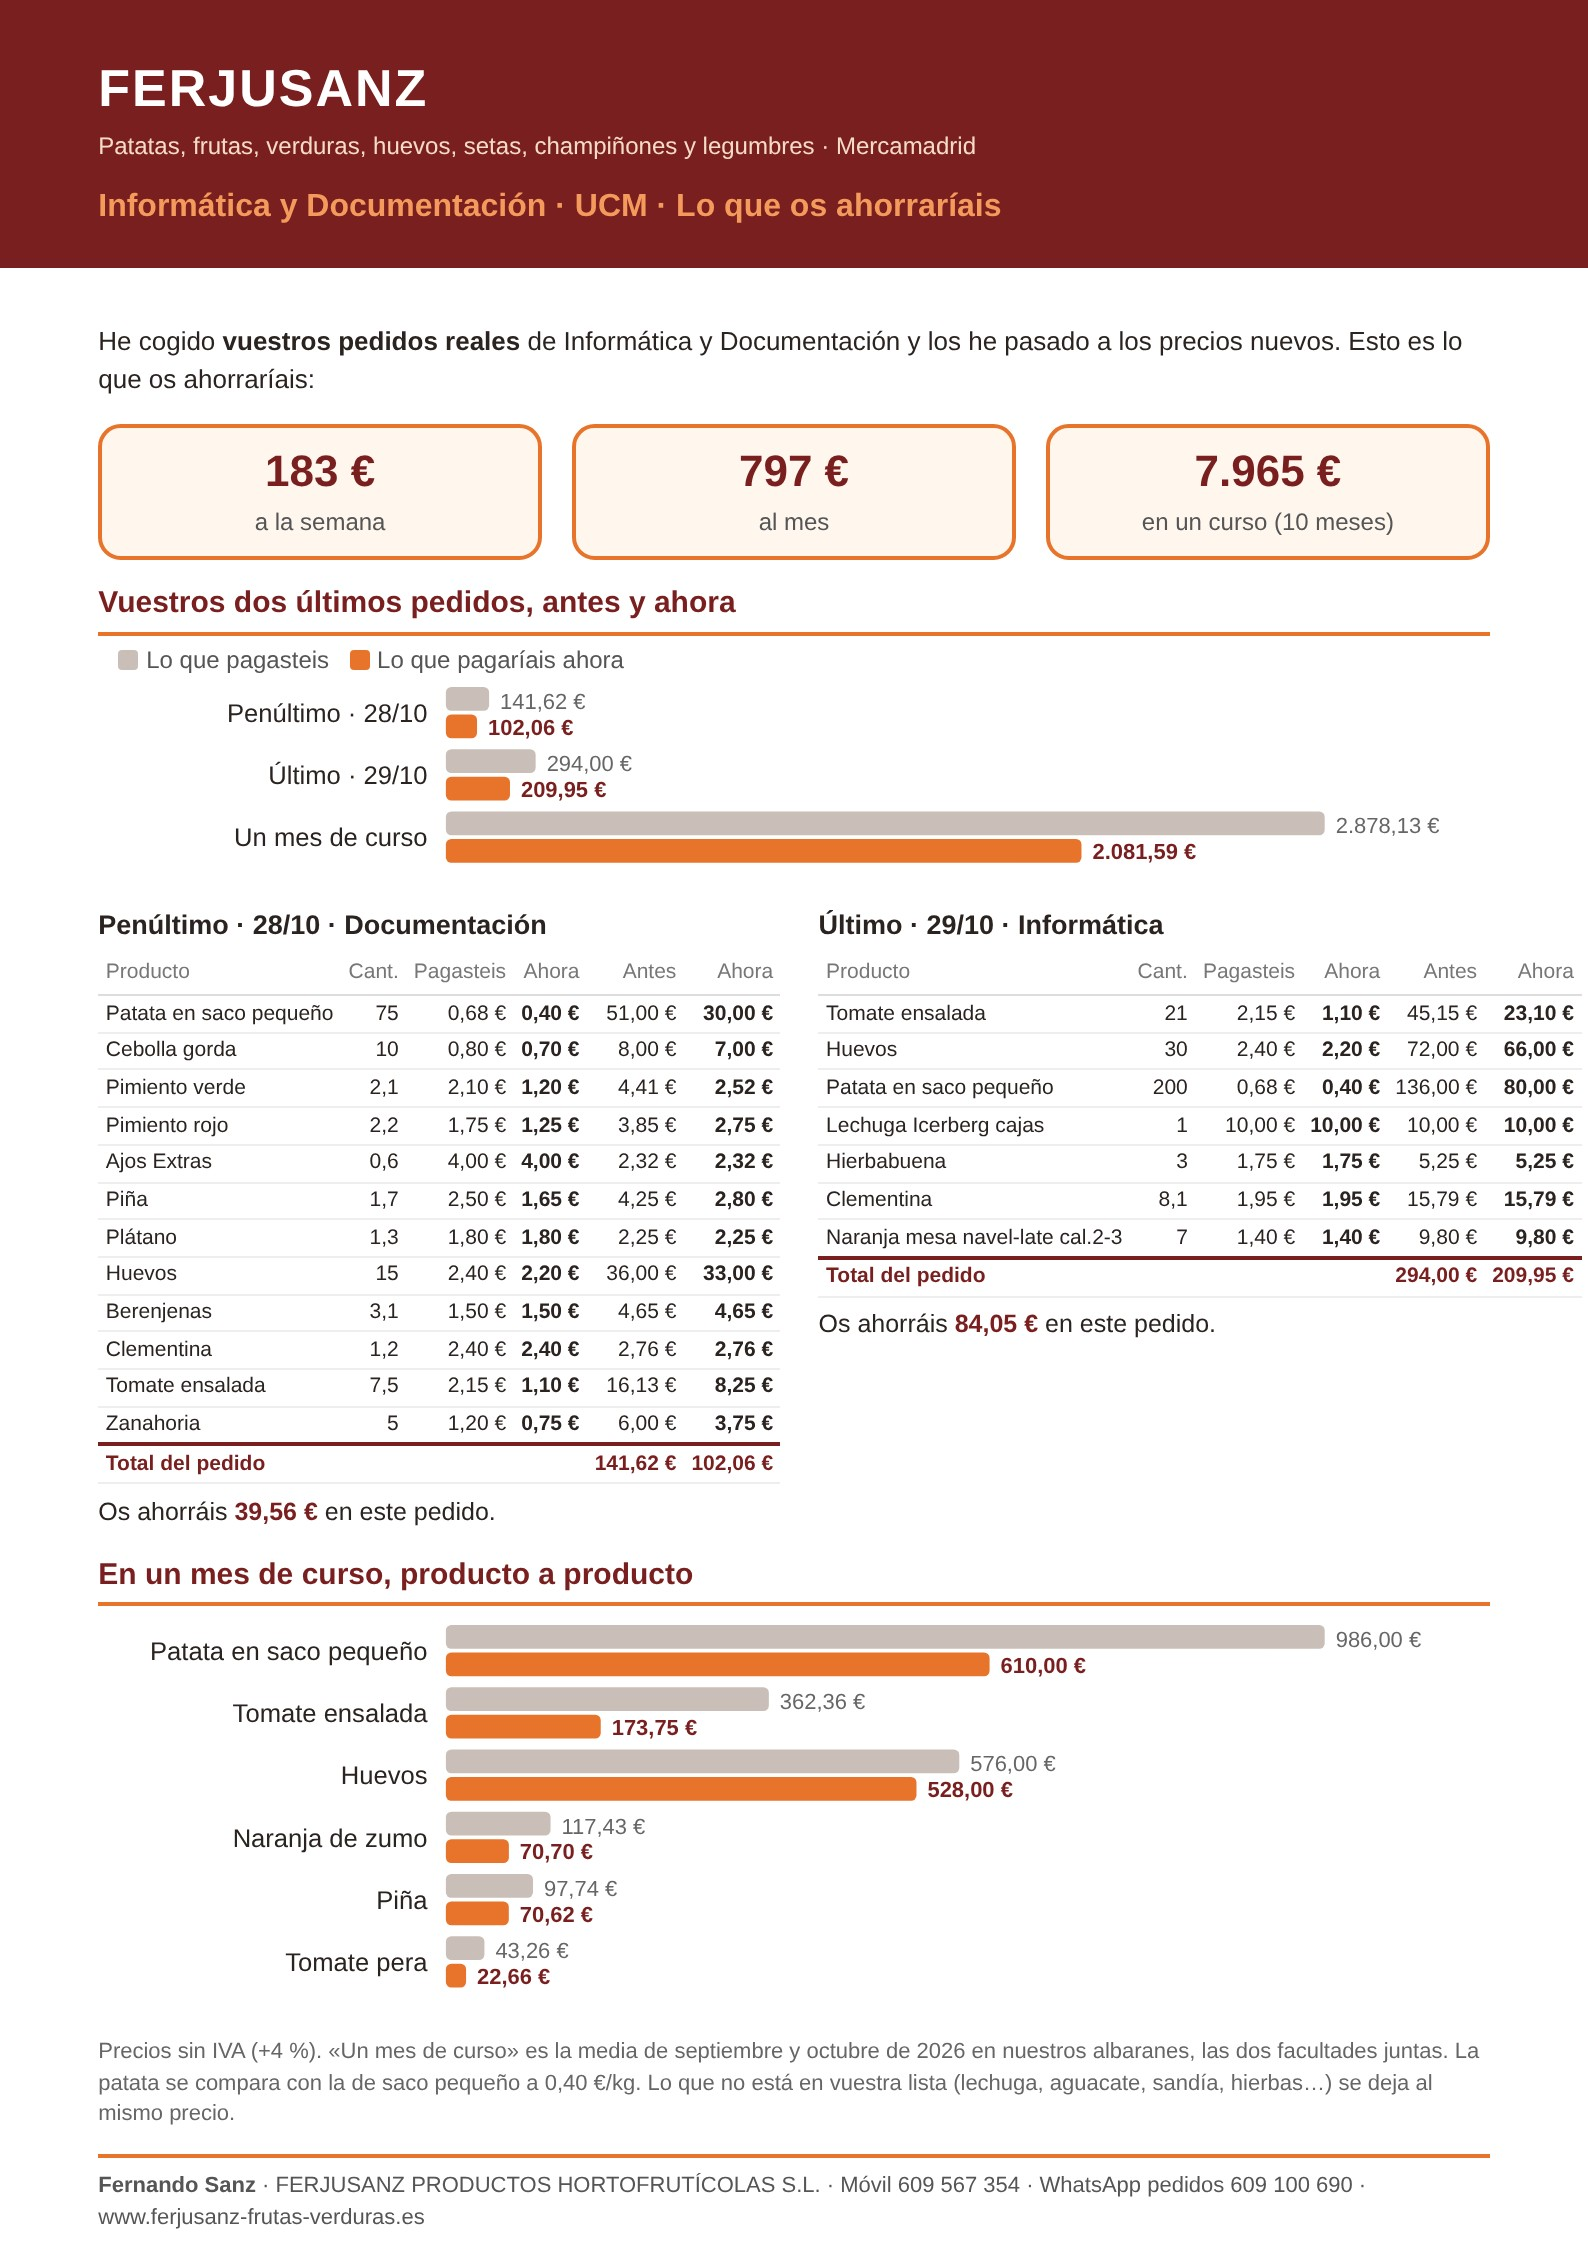
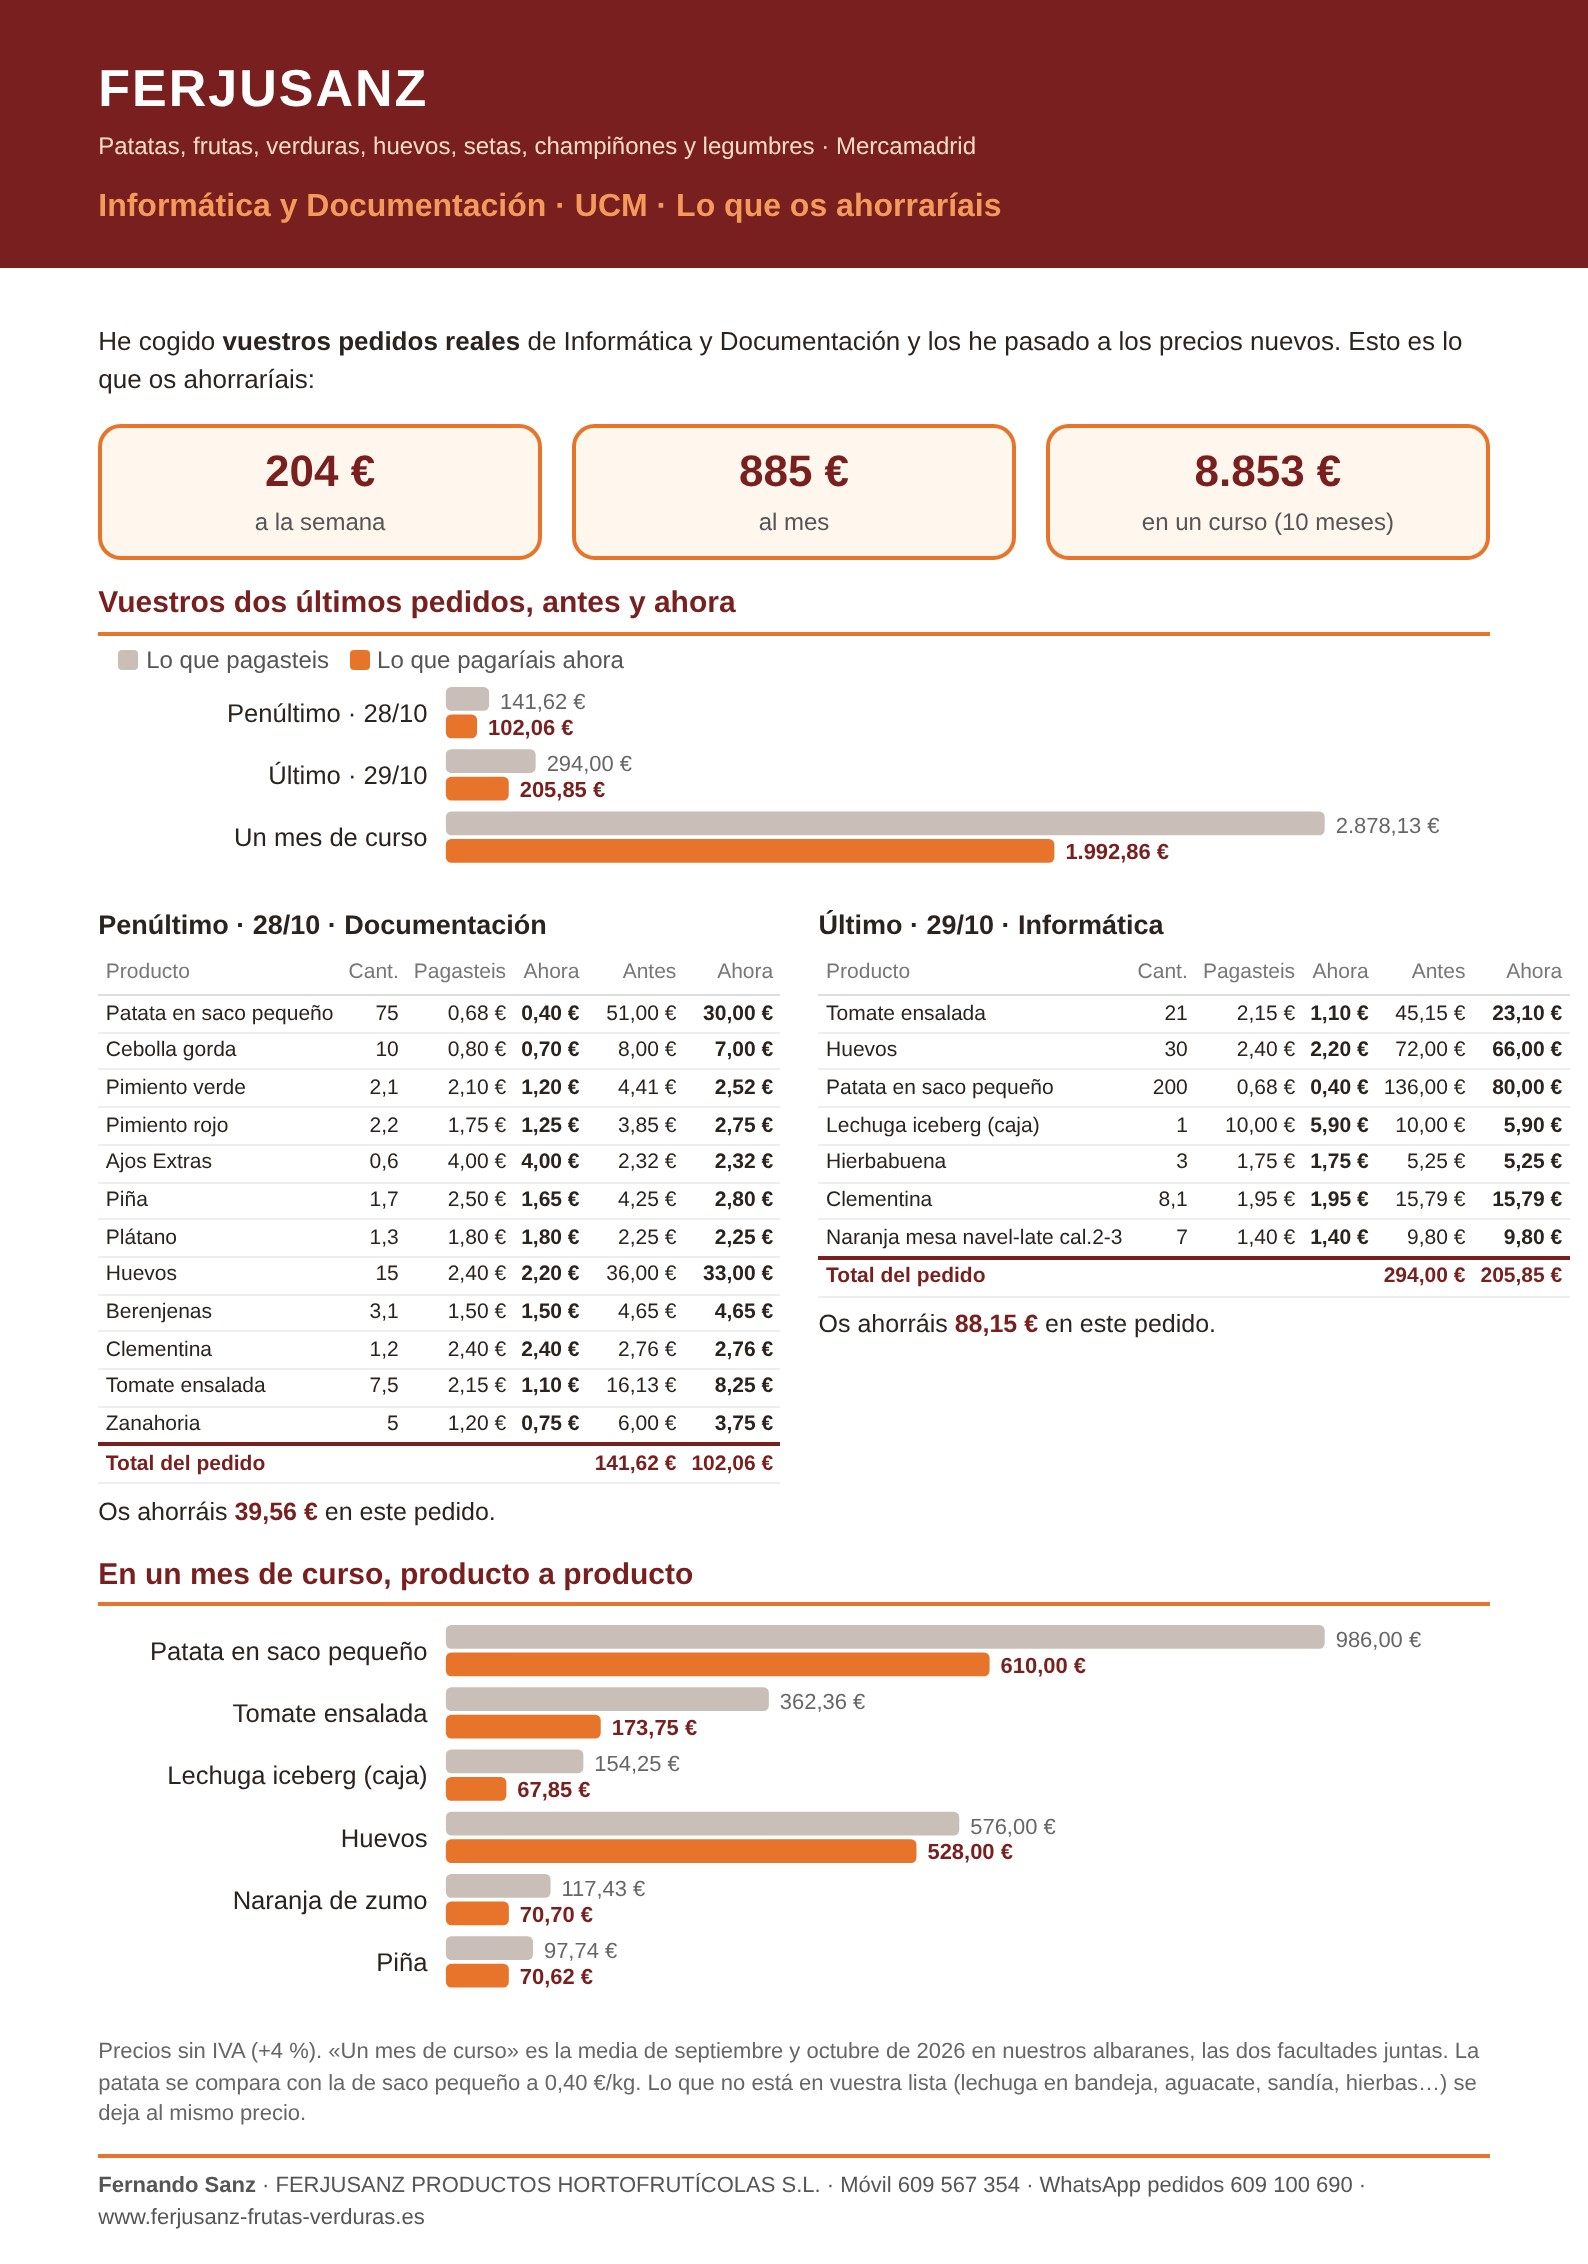
Complutense: iceberg pieza 0,80 y comparada en «Lo que os ahorraríais»
Claude-Session: https://claude.ai/code/session_01VB7xFSLj5GMZSBeHNQSXen

diff --git a/docs/HISTORIAL.md b/docs/HISTORIAL.md
@@ -48,6 +48,7 @@ _Lo más nuevo arriba. El detalle de cada cambio está en el historial de GitLab
 - **🚗 Bar Burgos (Emilio): «Lo que te ahorras sin ir a Mercamadrid» + precios + presentación (REBU; SQL en pruebas y real: solo añade una lista y una presentación)** (26/11/2026, Tito: «Emilio es el jefe… está yendo él a comprar a Mercamadrid… gráfico comparativo… gasolina, madrugar… 8 sacos a la semana de 25 kilos… PDF, JPG y presentación… tomate bueno, rama, raf, para la carta… no pongas el 609 100 690, pon el 609 56 73 54»). `docs/hosteleria/Ferjusanz-Burgos.pdf` (2 hojas) y `Ferjusanz-Burgos-1-lo-que-te-ahorras.jpg` / `-2-precios.jpg` (generador `docs/hosteleria/burgos.mjs`), y en Comercial › 🎬 Presentaciones **«Visita · Bar Burgos (Emilio)»** (9 láminas) con la lista **«Bar Burgos (Emilio)»** (14 productos, precio fijo). Sin historial en Golden (cliente REBU inactivo, «hace muchos años»). Cuenta por lo bajo, a la vista en la hoja (corregida por Tito: «no son 80 km, está en Hortaleza»): 2 viajes/semana, 36 km i/v (Hortaleza–Mercamadrid por la M-40) a 0,26 €/km, 1,5 h por viaje a 15 €/h, patata allí por sacos sueltos a 0,58 (lo que nos cobran a nosotros por sacos sueltos: 0,50-0,66) → ahorro ~76 €/semana, ~328 €/mes, ~3.937 €/año y 3 h libres. Añadida «Tu semana con nosotros (aproximada)»: cesta de ejemplo (patata 200 kg, cebolla 25, tomate pera 15, RAF 5, iceberg 12 piezas…) ≈ 199,45 €/semana; solo la patata es dato real. Precios (compra Golden 14-24/11): patata especial freír 0,52 (compra 0,42 + 0,10; saco 13,00 €) · cebolla gorda 0,55 (0,45 + 0,10) · tomate pera 1,25 (como Duarte) · tomate en rama 1,70 y RAF 2,00 (como Padel Spirit, compra + 0,20) · mezclum 2,45/kg · iceberg 0,95/pieza · naranja zumo 0,90 · pimientos compra + 0,25: rojo de primera 2,15, rojo de segunda 1,35, verde 1,25, italiano 2,05, Padrón 1,75 · zanahoria 0,80 (0,60 + 0,20). Solo el móvil 609 567 354. Comprobado en la app de pruebas (las hojas de puntos llevan 7 para que la app no ponga fotos al azar).
 - **🎾 Lista para el Restaurante Club de Tenis («Bustamante»; DIPAHI SL, TENIS; sin app ni SQL)** (26/11/2026, Tito: «lista barata para Bustamante… tomates bonitos, setas… 20 céntimos por encima… patatas igual que Duarte… ahora llevo yo las riendas… que pida antes y yo mismo le apunte a cuánto va a pagar»; primero Claude la hizo para Padel Spirit y Tito corrigió: es el cliente del pedido del 04/03/2026). `docs/hosteleria/Ferjusanz-precios-Club-de-Tenis.pdf` y `.jpg` (3 págs., `docs/hosteleria/bustamante.mjs`, fotos propias de `web/fotos`). En Golden solo compró en febrero y marzo (1.114 €; último 31/03). Patata agria 0,58 (como Duarte; en marzo la pagó a 0,46). El resto a compra del 14-24/11 + 0,20 €: tomate pera 1,20 · RAF 2,00 · RAF extra 4,70 · ensalada 1,40 · rosa 3,50 · rama 1,70 · cherry 4,95 · setas de ostra 4,00 · champiñón 3,00 · zanahoria 0,80 · calabacín 0,90 · berenjena 0,80 · pimiento italiano 2,00 · limón 1,20 · plátano 1,90 · melón y piña 1,70 · mezclum 2,15 · repollo 0,95…; ñoras según mercado. Su pedido del 04/03 a precios de hoy: 349,76 → 310,15 €. Rehecha (Tito: «no pongas en las fotos tomate RAF con el precio y luego otro precio… no lo repitas»): fotos sin precio y una sola lista con cada producto una vez; quitada la tabla del pedido de marzo (queda una frase con el total). 2 págs.
 - **📊 Los Barriletes: «Lo que os ahorraríais» (sin app ni SQL)** (26/11/2026, Tito: «eso me lo haces también para Barriletes… lo del gráfico»). `docs/hosteleria/Ferjusanz-Barriletes-lo-que-ahorrais.pdf` y `.jpg` (1 hoja, `docs/hosteleria/barriletes-comparativa.mjs`, lee Golden). Sus dos últimos albaranes: 02/10 129,48 → 80,64 € y 07/10 267,89 → 207,72 €. «Mes normal» = media feb-oct (9 meses): 1.119,79 → 861,01 €; ahorro ~259 €/mes, ~60 €/semana, ~3.105 €/año. Lo que no está en su hoja (melón, sandía, cherry…) se deja al mismo precio. En octubre solo pidió 2 veces (397 €).
+- **🥬 Complutense: lechuga iceberg por pieza de 0,70 a 0,80 € (SQL en real y pruebas: 1 fila de la lista «Universidades Complutense»)** (27/11/2026, Tito). La caja sigue a 5,90 €. Rehechas la hoja, la lista de precios y «Lo que os ahorraríais». **Fallo corregido**: en «Lo que os ahorraríais» la iceberg no se comparaba y en el pedido del 29/10 salía «Lechuga Iceberg cajas 10,00 €» igual antes y ahora (Juanjo lo vio en la reunión). Ahora se compara: caja → 5,90 €, pieza → 0,80 € (las «piezas» de Golden a más de 3 € se cuentan como cajas). Ahorro: ~885 €/mes (~204 €/semana), antes ~797 €. La presentación de la app lee la lista, ya sale a 0,80.
 - **🥔 Propuesta para la Universidad Complutense (Juanjo; SQL en pruebas y real: solo añade una lista y una presentación)** (26/11/2026, Tito: «la patata a 0,40… varios tipos… foto de un saco… JPG, PDF, presentación… que quede dentro de la aplicación… tomates como Florencio y Barriletes… naranjas a 0,85… el resto casi con 15 céntimos de margen»). `docs/universidades/Ferjusanz-Complutense.pdf` y `.jpg` (1 hoja, firma «Fernando Sanz», foto real de nuestros sacos de la web) y en Comercial › 🎬 Presentaciones **«Visita · Universidad Complutense (Juanjo)»** (portada, «Me lo tomo muy en serio», fotos patata/huevos/naranja/tomate con precio, «La patata a 0,40, sin sorpresas», sus precios y contacto) con la lista nueva **«Universidades Complutense»** (22 productos, precio fijo, sin recomendaciones). Generador: `docs/universidades/complutense.mjs`. Precios sobre la compra de Golden del 24/11: patata de saco pequeño (de tornear, nos cuesta 0,28-0,40) a 0,40 y plan B patata agria 0,50 (nos cuesta 0,42); tomate ensalada y pera 1,10 (igual que Barriletes; a 1,00 sería a coste); naranja zumo 0,85 (cuesta 0,70); resto coste + 0,15 (huevos 2,15/docena, cebolla 0,60, ajo pelado 3,45…). Antes nos pagaban de media: patata 0,65, huevos 2,40, tomate rambo 2,11, naranja 1,29. Gemini no pudo hacer la foto (sin cuota para imágenes en el plan gratis). Comprobado en la app de pruebas. Después, ajustes de Tito: huevos 2,20, pimiento verde 1,20, ajo pelado 3,60, limones 1,35, cebolla gorda 0,70, cebolla calibre pequeño 0,62 (nueva), naranja zumo 0,90; hoja nueva «Os lo ponemos fácil» (os colocamos todo el género, puntuales, con cada pedido os llega lo que os va a salir) y el mismo texto en la hoja PDF/JPG; fuera la foto de patata pelada (él no la gasta) y la de tomate raf/asurcado, ahora tomate en rama. 9 hojas, comprobadas en pruebas. Además, «Lo que os ahorraríais» y la lista de precios sola (`docs/universidades/Ferjusanz-Complutense-lo-que-ahorrais.*` y `-precios.*`, script `complutense-comparativa.mjs`, precios de la lista de la base real): con sus pedidos de septiembre y octubre (Golden, las dos facultades) pagarían ~2.082 € al mes en vez de ~2.878 € (~797 €/mes, ~183 €/semana); la patata se compara con la de saco pequeño a 0,40; iceberg y aguacate no se comparan (otras unidades en Golden).
 - **📊 Duarte: «Lo que te ahorrarías» (sin app ni SQL)** (26/11/2026, Tito: «comparación con el penúltimo pedido y el último… gráficos, tablas… lo que van a ahorrar mensualmente y semanalmente»). `docs/hosteleria/Ferjusanz-Duarte-lo-que-ahorras.pdf` y `.jpg` (1 hoja, `docs/hosteleria/duarte-comparativa.mjs`), con los 9 pedidos de octubre de Golden (1.961,63 € sin IVA): a los precios nuevos 1.709,53 €, ahorro 252 €/mes, ~57 €/semana, ~3.025 €/año. Penúltimo (26/10) 276,40 → 239,00; último (29/10) 179,90 → 158,50. La cebolla gorda a 0,65 le sale algo más cara que en octubre (0,56-0,64).
 - **🥔 Lista de precios para Restaurante Duarte (DUARTE; sin app ni SQL)** (26/11/2026, Tito: «me reuní 2 veces y luego me dijo que no estaba interesado… espero que siga comprando la patata barata… un precio en el que ganemos 8 o 10 céntimos… el resto con un margen de 20-30… enviarle los precios el día anterior si me hace el pedido… que tenga él siempre el control»). `docs/hosteleria/Ferjusanz-precios-Duarte.pdf` y `.jpg` (1 hoja, `docs/hosteleria/duarte.mjs`). En Golden: 21.459 € en 2026 (casi todo patata agria: 22.515 kg a ~0,74; en octubre 0,62-0,66), más limón, cebolla y ajos; sin compras en noviembre. Patata agria 0,58 €/kg (saco de 25 kg 14,50 €; Tito: «0,58 ponle», antes 0,50): Tito aclara que a Duarte se le sirve Jelly (especial freír) aunque la llame y se facture «agria»; compra 0,40 (app, 06/11) y 0,42 (lotes grandes de Ibérica en Golden, 14-24/11). Resto a compra + 0,20-0,30 €: limón 1,25 · cebolla gorda 0,65 · ajos 3,20 · tomate pera 1,25 · pimiento verde 1,25 · rojo 1,35 · calabacín 0,95 · berenjena 0,90 · zanahoria 0,85 · ajo pelado 3,60; perejil de regalo. La hoja ofrece mandarle lo que le sale cada cosa nada más hacer el pedido el día antes.
